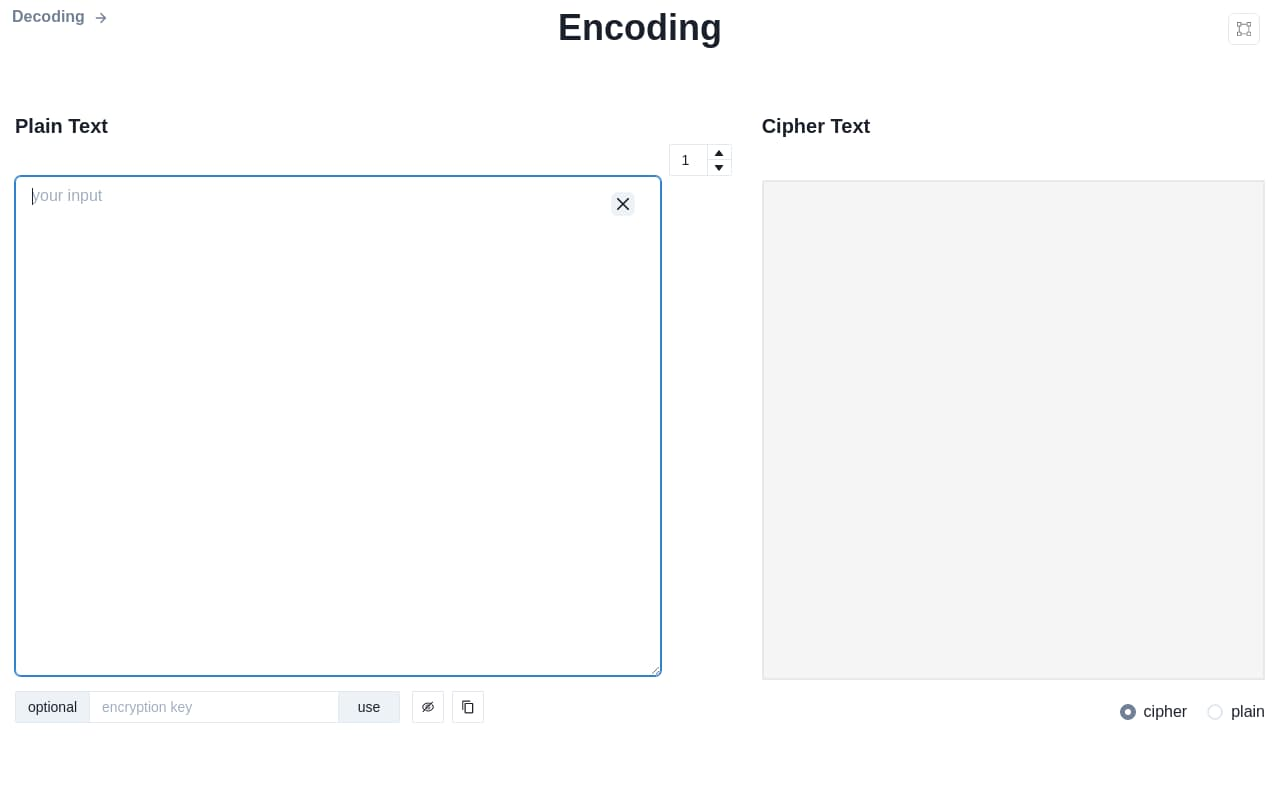
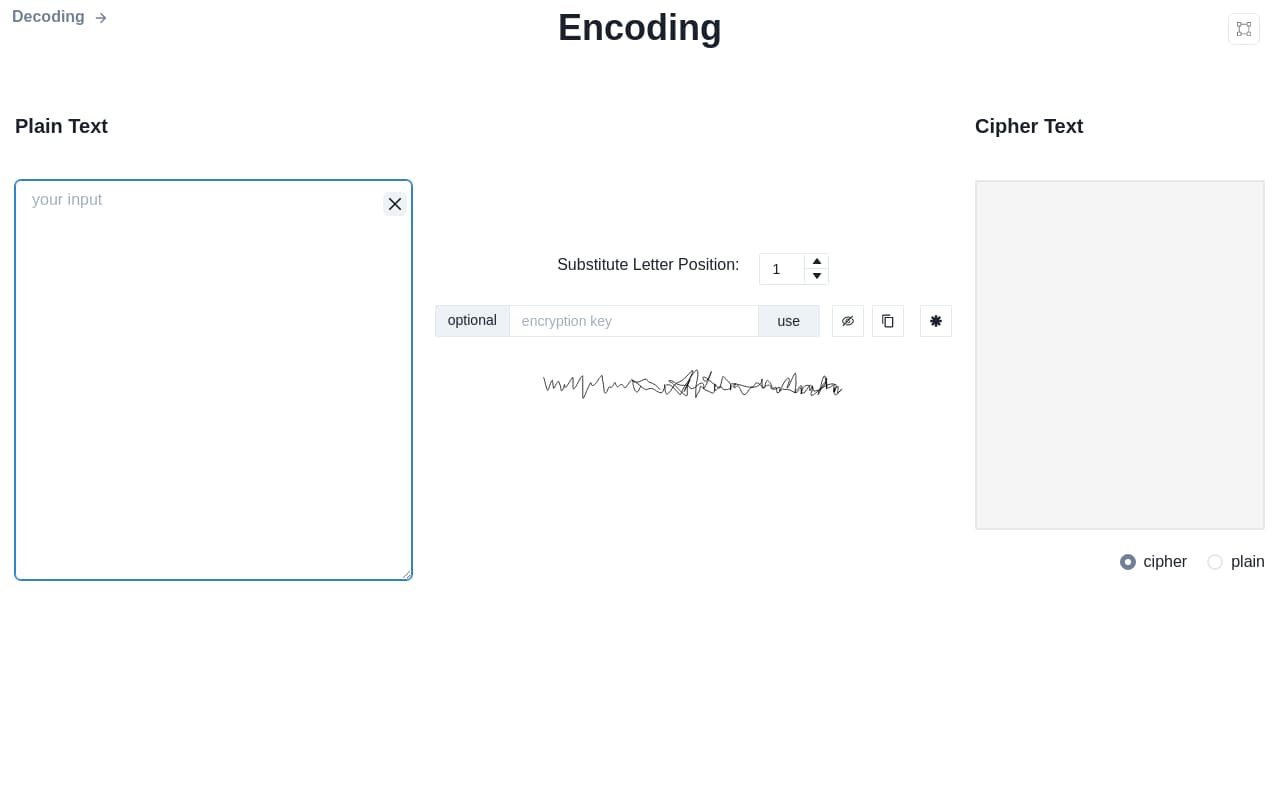
Added substitution cipher info

diff --git a/src/components/encoding/encryption-key/encryption-key.tsx b/src/components/encoding/encryption-key/encryption-key.tsx
@@ -16,8 +16,18 @@ import {
   Button,
   Image,
   Text,
+  Popover,
+  PopoverTrigger,
+  PopoverArrow,
+  PopoverContent,
+  PopoverBody,
+  PopoverHeader,
+  PopoverCloseButton,
+  Kbd,
+  Code,
+  Link,
 } from "@chakra-ui/core";
-import { CopyIcon } from "@chakra-ui/icons";
+import { CopyIcon, InfoIcon } from "@chakra-ui/icons";
 import { AiOutlineEye, AiOutlineEyeInvisible } from "react-icons/ai";
 import { GrEmergency } from "react-icons/gr";
 import { Props } from "./encryption-key.model";
@@ -84,7 +94,7 @@ const EncryptionKey: React.FC<Props> = (props: Props) => {
     } else {
       toast({
         status: "warning",
-        description: "Encryption key cannot be empty",
+        description: "Encryption key is empty",
         isClosable: true,
         duration: 2200,
       });
@@ -147,7 +157,40 @@ const EncryptionKey: React.FC<Props> = (props: Props) => {
             </Tooltip>
           </NumberInputStepper>
         </NumberInput>
+        <Popover>
+          <PopoverTrigger>
+            <IconButton
+              bg="white"
+              size="sm"
+              ml={3}
+              aria-label="whats substitute letter position"
+              icon={<InfoIcon />}
+            />
+          </PopoverTrigger>
+          <PopoverContent>
+            <PopoverArrow />
+            <PopoverCloseButton />
+            <PopoverHeader>Substitute letter position</PopoverHeader>
+            <PopoverBody textAlign="start">
+              Set the substitute letter position. For example, if the position
+              is in <Kbd>5</Kbd>, then for the letter <Code>a</Code> it would be
+              replaced by the letter <Code>e</Code>, and for the letter{" "}
+              <Code>b</Code> it would be replaced by the letter <Code>f</Code>{" "}
+              and the pattern will continue on all letters respectively.
+              <Text mt={3}>
+                Learn more about{" "}
+                <Link
+                  color="purple.700"
+                  href="https://en.wikipedia.org/wiki/Substitution_cipher"
+                >
+                  substitution cipher
+                </Link>
+              </Text>
+            </PopoverBody>
+          </PopoverContent>
+        </Popover>
       </Box>
+
       <Box
         display="grid"
         justifyContent="center"
@@ -173,6 +216,7 @@ const EncryptionKey: React.FC<Props> = (props: Props) => {
                 width="130px"
                 size="sm"
                 fontWeight="regular"
+                type="button"
                 onClick={removeEncryption}
               >
                 remove encryption

diff --git a/src/components/decoding/decryption-key/decryption-key.tsx b/src/components/decoding/decryption-key/decryption-key.tsx
@@ -50,7 +50,7 @@ const DecryptionKey: React.FC<Props> = (props: Props) => {
     } else {
       toast({
         status: "warning",
-        description: "Encryption key cannot be empty",
+        description: "Encryption key is empty",
         isClosable: true,
         duration: 2200,
       });
